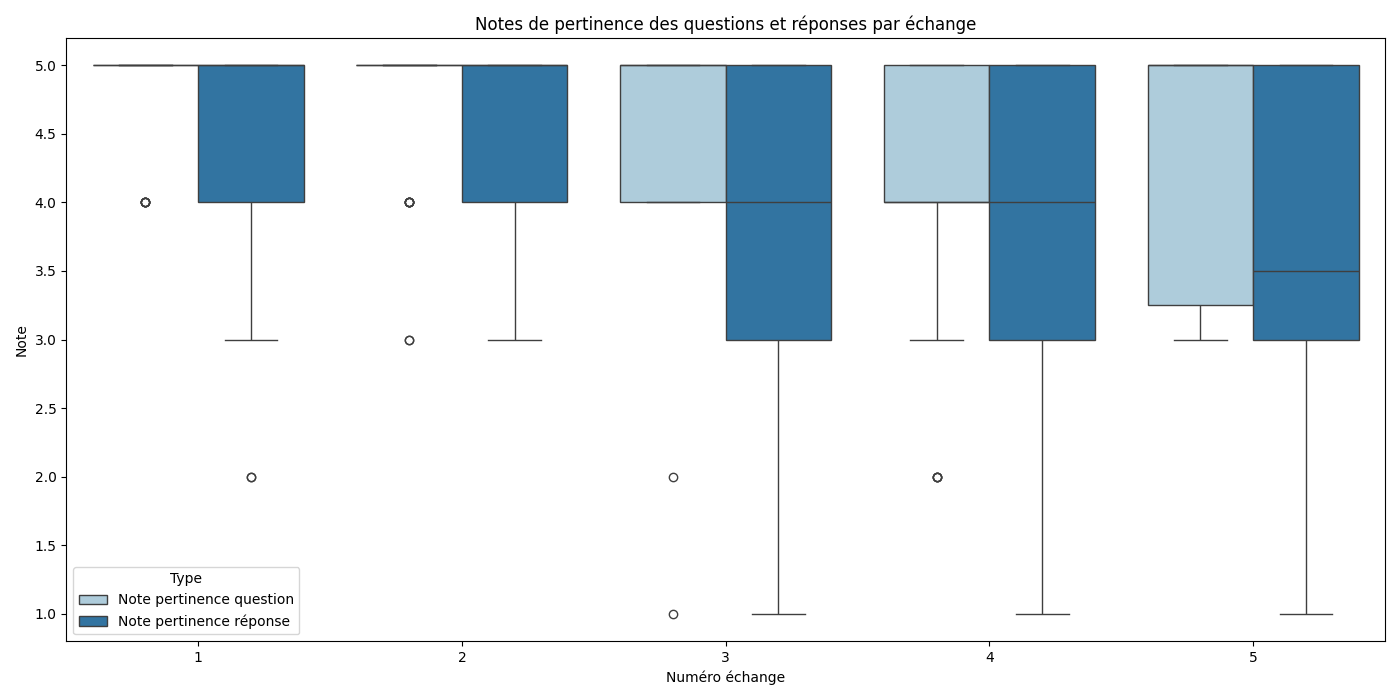
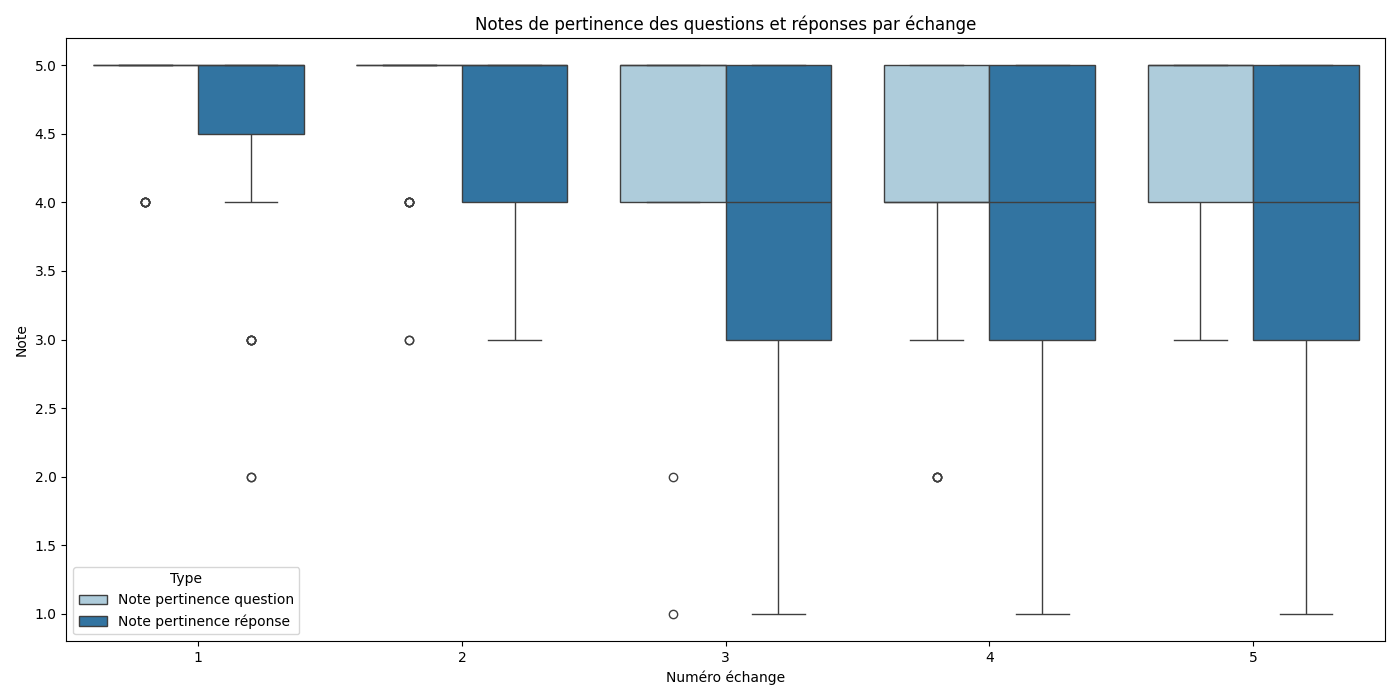
ajout évaluations et MAJ rapport

Changed region(s): [[0.7986, 0.27, 0.9214, 0.45], [0.1229, 0.18, 0.2457, 0.3], [0.1536, 0.48, 0.1843, 0.51]]

diff --git a/sondages/conversations/output/rapport_statistique.md b/sondages/conversations/output/rapport_statistique.md
@@ -1,7 +1,7 @@
 # Rapport Statistique
 
-## Nombre total de conversations : 34
-## Nombre total d'échanges : 170
+## Nombre total de conversations : 39
+## Nombre total d'échanges : 195
 
 ## Graphiques
 
@@ -19,130 +19,130 @@
 
 ## Statistiques pour Échange 1
 ### Note pertinence question
-- **Moyenne**: 4.823529411764706
+- **Moyenne**: 4.846153846153846
 - **Médiane**: 5.0
-- **Écart-type**: 0.38695299497594754
+- **Écart-type**: 0.36551776819519566
 - **Min**: 4.0
 - **Max**: 5.0
-- **Nombre de valeurs**: 34
+- **Nombre de valeurs**: 39
 ### Note pertinence réponse
-- **Moyenne**: 4.4411764705882355
+- **Moyenne**: 4.512820512820513
 - **Médiane**: 5.0
-- **Écart-type**: 0.9595193389681275
+- **Écart-type**: 0.9139790067782242
 - **Min**: 2
 - **Max**: 5
-- **Nombre de valeurs**: 34
+- **Nombre de valeurs**: 39
 ### Réalisme interaction
-- **Oui**: 82.35%
-- **Non**: 14.71%
-- **Non répondu**: 2.94%
+- **Oui**: 84.62%
+- **Non**: 12.82%
+- **Non répondu**: 2.56%
 ### Réalisme moyen
-- 82.35294117647058
+- 84.61538461538461
 
 ## Statistiques pour Échange 2
 ### Note pertinence question
-- **Moyenne**: 4.705882352941177
+- **Moyenne**: 4.743589743589744
 - **Médiane**: 5.0
-- **Écart-type**: 0.5788919281935353
+- **Écart-type**: 0.5485842409017252
 - **Min**: 3.0
 - **Max**: 5.0
-- **Nombre de valeurs**: 34
+- **Nombre de valeurs**: 39
 ### Note pertinence réponse
-- **Moyenne**: 4.352941176470588
+- **Moyenne**: 4.410256410256411
 - **Médiane**: 5.0
-- **Écart-type**: 0.773905989951895
+- **Écart-type**: 0.7510676161988108
 - **Min**: 3
 - **Max**: 5
-- **Nombre de valeurs**: 34
+- **Nombre de valeurs**: 39
 ### Réalisme interaction
-- **Oui**: 79.41%
-- **Non**: 17.65%
-- **Non répondu**: 2.94%
+- **Oui**: 82.05%
+- **Non**: 15.38%
+- **Non répondu**: 2.56%
 ### Réalisme moyen
-- 79.41176470588235
+- 82.05128205128204
 
 ## Statistiques pour Échange 3
 ### Note pertinence question
-- **Moyenne**: 4.4411764705882355
+- **Moyenne**: 4.512820512820513
 - **Médiane**: 5.0
-- **Écart-type**: 0.8941282014575489
+- **Écart-type**: 0.854455655336526
 - **Min**: 1.0
 - **Max**: 5.0
-- **Nombre de valeurs**: 34
+- **Nombre de valeurs**: 39
 ### Note pertinence réponse
-- **Moyenne**: 3.7058823529411766
+- **Moyenne**: 3.8461538461538463
 - **Médiane**: 4.0
-- **Écart-type**: 1.142284042707679
+- **Écart-type**: 1.1364409248652136
 - **Min**: 1
 - **Max**: 5
-- **Nombre de valeurs**: 34
+- **Nombre de valeurs**: 39
 ### Réalisme interaction
-- **Oui**: 76.47%
-- **Non**: 23.53%
+- **Oui**: 79.49%
+- **Non**: 20.51%
 ### Réalisme moyen
-- 76.47058823529412
+- 79.48717948717949
 
 ## Statistiques pour Échange 4
 ### Note pertinence question
-- **Moyenne**: 4.090909090909091
+- **Moyenne**: 4.157894736842105
 - **Médiane**: 4.0
-- **Écart-type**: 1.0112997936948631
+- **Écart-type**: 0.9733285267845754
 - **Min**: 2.0
 - **Max**: 5.0
-- **Nombre de valeurs**: 33
+- **Nombre de valeurs**: 38
 ### Note pertinence réponse
-- **Moyenne**: 3.9411764705882355
+- **Moyenne**: 4.076923076923077
 - **Médiane**: 4.0
-- **Écart-type**: 1.0714243272982744
+- **Écart-type**: 1.0608987099975635
 - **Min**: 1
 - **Max**: 5
-- **Nombre de valeurs**: 34
+- **Nombre de valeurs**: 39
 ### Réalisme interaction
-- **Oui**: 61.76%
-- **Non**: 38.24%
+- **Oui**: 66.67%
+- **Non**: 33.33%
 ### Réalisme moyen
-- 61.76470588235294
+- 66.66666666666666
 
 ## Statistiques pour Échange 5
 ### Note pertinence question
-- **Moyenne**: 4.294117647058823
+- **Moyenne**: 4.358974358974359
 - **Médiane**: 5.0
-- **Écart-type**: 0.8714116643527636
+- **Écart-type**: 0.842526885005348
 - **Min**: 3.0
 - **Max**: 5.0
-- **Nombre de valeurs**: 34
+- **Nombre de valeurs**: 39
 ### Note pertinence réponse
-- **Moyenne**: 3.588235294117647
-- **Médiane**: 3.5
-- **Écart-type**: 1.2089977581958695
+- **Moyenne**: 3.7435897435897436
+- **Médiane**: 4.0
+- **Écart-type**: 1.2078242447507945
 - **Min**: 1
 - **Max**: 5
-- **Nombre de valeurs**: 34
+- **Nombre de valeurs**: 39
 ### Réalisme interaction
-- **Oui**: 58.82%
-- **Non**: 41.18%
+- **Oui**: 64.1%
+- **Non**: 35.9%
 ### Réalisme moyen
-- 58.82352941176471
+- 64.1025641025641
 
 ## Statistiques pour Global
 ### Note pertinence question
-- **Moyenne**: 4.4733727810650885
+- **Moyenne**: 4.525773195876289
 - **Médiane**: 5.0
-- **Écart-type**: 0.8169709498055291
+- **Écart-type**: 0.7831487329560498
 - **Min**: 1.0
 - **Max**: 5.0
-- **Nombre de valeurs**: 169
+- **Nombre de valeurs**: 194
 ### Note pertinence réponse
-- **Moyenne**: 4.0058823529411764
-- **Médiane**: 4.0
-- **Écart-type**: 1.0851174987425423
+- **Moyenne**: 4.1179487179487175
+- **Médiane**: 5.0
+- **Écart-type**: 1.0607505111199012
 - **Min**: 1
 - **Max**: 5
-- **Nombre de valeurs**: 170
+- **Nombre de valeurs**: 195
 ### Réalisme interaction
-- **Oui**: 71.76%
-- **Non**: 27.06%
-- **Non répondu**: 1.18%
+- **Oui**: 75.38%
+- **Non**: 23.59%
+- **Non répondu**: 1.03%
 
 ## Conversations les plus mal notées
 - **Moins pertinente** : conversation_6 (Score: 3.6)
@@ -153,16 +153,17 @@
 ## Liste des conversations évaluées
 ### Nombre d'évaluations
 - **conversation_1** : 2.0 évaluations
-- **conversation_10** : 3.0 évaluations
+- **conversation_10** : 4.0 évaluations
 - **conversation_11** : 2.0 évaluations
 - **conversation_12** : 1.0 évaluations
-- **conversation_13** : 1.0 évaluations
+- **conversation_13** : 2.0 évaluations
 - **conversation_14** : 1.0 évaluations
 - **conversation_15** : 1.0 évaluations
+- **conversation_16** : 1.0 évaluations
 - **conversation_17** : 4.0 évaluations
-- **conversation_18** : 2.0 évaluations
+- **conversation_18** : 3.0 évaluations
 - **conversation_2** : 1.0 évaluations
-- **conversation_3** : 2.0 évaluations
+- **conversation_3** : 3.0 évaluations
 - **conversation_4** : 1.0 évaluations
 - **conversation_5** : 2.0 évaluations
 - **conversation_6** : 2.0 évaluations
@@ -171,16 +172,17 @@
 - **conversation_9** : 3.0 évaluations
 ### Scores moyens
 - **conversation_1** : Moyenne pertinence: 4.05, Réalisme moyen: 80.0%
-- **conversation_10** : Moyenne pertinence: 4.6, Réalisme moyen: 100.0%
+- **conversation_10** : Moyenne pertinence: 4.7, Réalisme moyen: 100.0%
 - **conversation_11** : Moyenne pertinence: 3.8, Réalisme moyen: 40.0%
 - **conversation_12** : Moyenne pertinence: 4.8, Réalisme moyen: 100.0%
-- **conversation_13** : Moyenne pertinence: 4.2, Réalisme moyen: 100.0%
+- **conversation_13** : Moyenne pertinence: 4.55, Réalisme moyen: 100.0%
 - **conversation_14** : Moyenne pertinence: 4.5, Réalisme moyen: 60.0%
 - **conversation_15** : Moyenne pertinence: 4.2, Réalisme moyen: 40.0%
+- **conversation_16** : Moyenne pertinence: 4.7, Réalisme moyen: 100.0%
 - **conversation_17** : Moyenne pertinence: 4.28, Réalisme moyen: 85.0%
-- **conversation_18** : Moyenne pertinence: 4.1, Réalisme moyen: 80.0%
+- **conversation_18** : Moyenne pertinence: 4.4, Réalisme moyen: 87.0%
 - **conversation_2** : Moyenne pertinence: 4.7, Réalisme moyen: 80.0%
-- **conversation_3** : Moyenne pertinence: 4.55, Réalisme moyen: 60.0%
+- **conversation_3** : Moyenne pertinence: 4.63, Réalisme moyen: 73.0%
 - **conversation_4** : Moyenne pertinence: 4.8, Réalisme moyen: 100.0%
 - **conversation_5** : Moyenne pertinence: 4.65, Réalisme moyen: 100.0%
 - **conversation_6** : Moyenne pertinence: 3.6, Réalisme moyen: 30.0%
